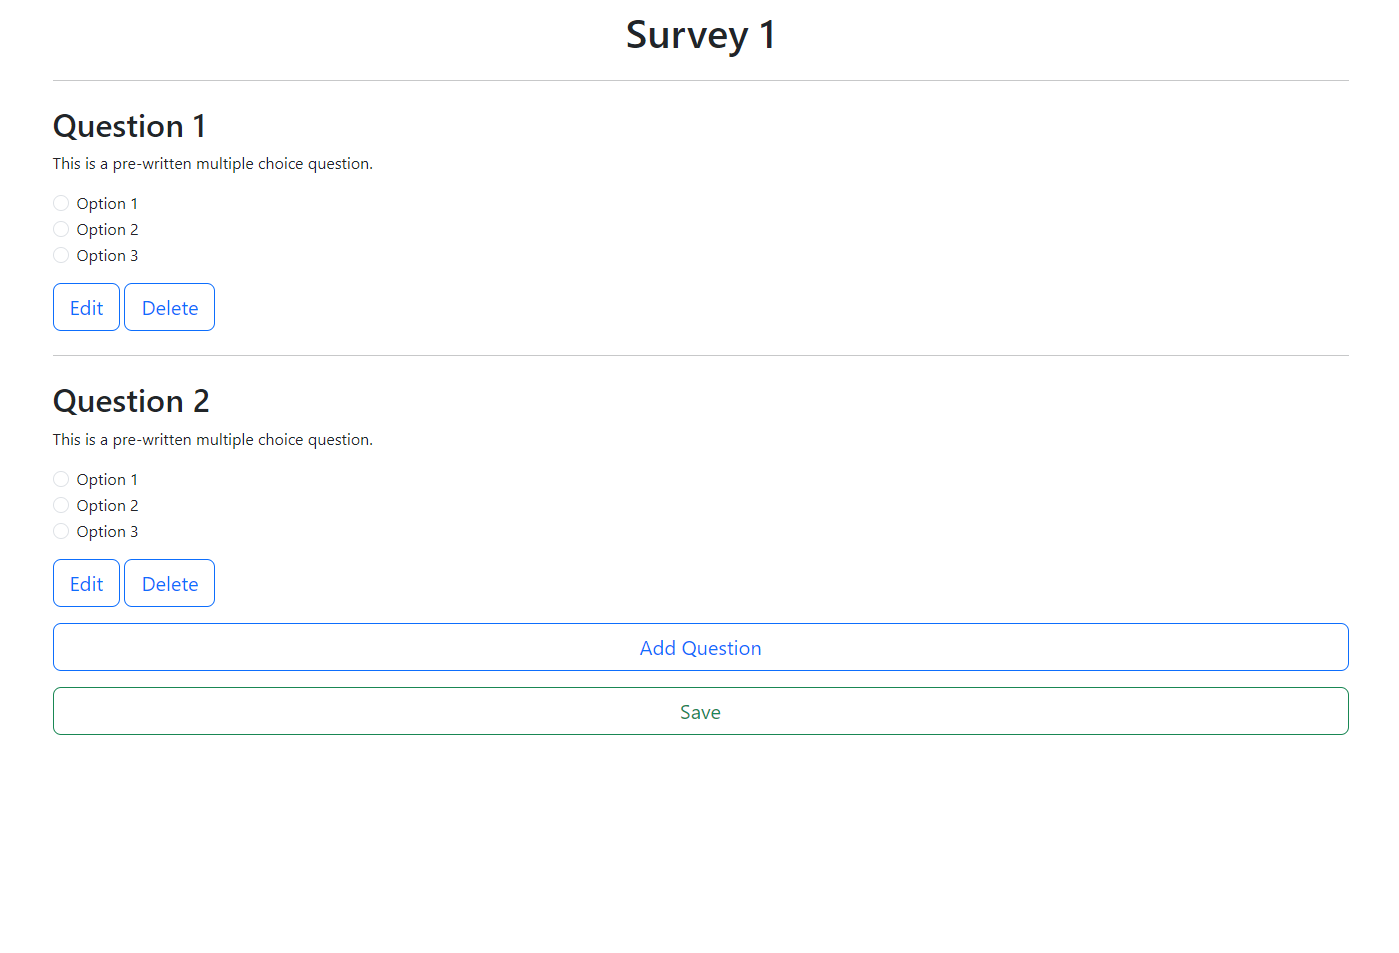
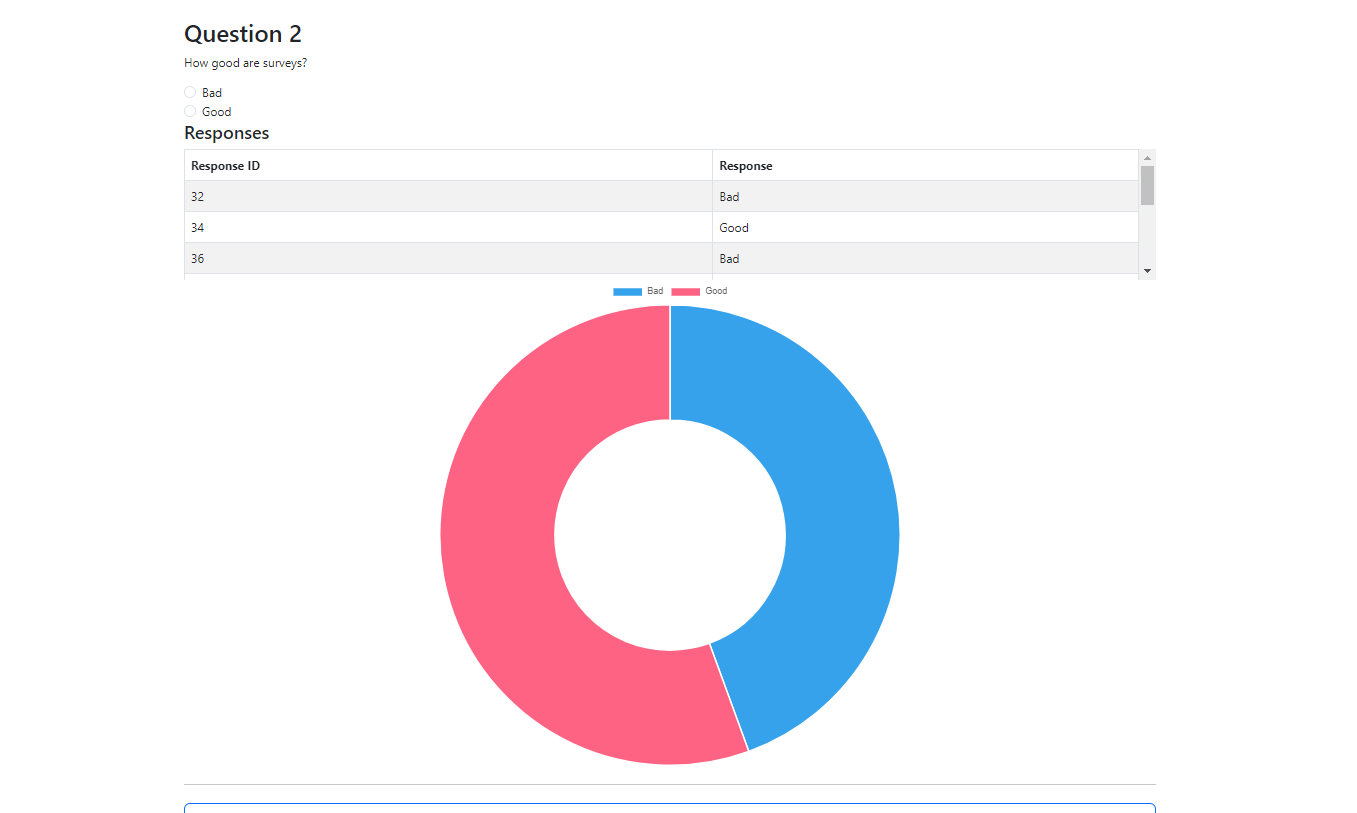
Implementing create/edit questions

diff --git a/app/Views/editSurvey.php b/app/Views/editSurvey.php
@@ -1,0 +1,87 @@
+<?= $this->extend('userTemplate') ?>
+<?= $this->section('content') ?>
+
+    
+<div class="container mt-3">
+    <h1 class="text-center"><?= esc($title) ?></h1>
+    <hr class="my-4">
+
+
+    <?php for ($i = 0; $i < count($questions); $i++): ?>
+        <h2>Question <?= $i + 1 ?> </h2>
+        <p><?= $questions[$i]['question'] ?></p> 
+
+        <?php if (!empty($options[$questions[$i]['question_id']])): ?> 
+            <?php foreach ($options[$questions[$i]['question_id']] as $option): ?>
+                <div class="form-check">
+                    <input class="form-check-input" type="radio" name="question_<?= $i + 1 ?>" id="option_<?= $option['option_id'] ?>" value="<?= $option['option_text'] ?>"> 
+                    <label class="form-check-label" for="option_<?= $option['option_id'] ?>"><?= $option['option_text'] ?></label>
+                </div>
+            <?php endforeach; ?>
+
+        <?php else: ?>
+            <div class="mb-3">
+                <textarea class="form-control" name="text_answer_<?= $i + 1 ?>" id="exampleFormControlTextarea1" rows="2" placeholder="Please Enter Answer"></textarea>
+            </div>
+        <?php endif; ?>
+
+        <form class="d-inline" action="<?= base_url('view-surveys/' . $id . '/edit-survey/deleteQuestion'); ?>" method="post">
+            <button type="submit" class="btn btn-danger" ><i class="bi bi-trash"></i></button>
+            <input type="hidden" value=<?=$questions[$i]['question_id']?> name="question_id" />
+        </form>
+
+        <hr class="my-4">       
+    <?php endfor; ?>
+
+
+    <div class="text-center">
+      <button type="button" class="btn btn-outline-primary btn-lg" style="width: 100%;" data-bs-toggle="modal" data-bs-target="#addQuestionModal">
+          <i class="bi bi-plus"></i> Add Question
+      </button>
+
+      <div class="mb-3"></div>
+
+      <a href="<?= base_url('view-surveys')?>" class="btn btn-outline-success btn-lg" style="width: 100%;">
+        <i class="bi bi-save"></i> Save
+      </a>
+    </div>
+
+</div>
+
+<div class="modal fade" id="addQuestionModal" tabindex="-1" aria-labelledby="addQuestionModalLabel" aria-hidden="true">
+        <div class="modal-dialog modal-dialog-centered">
+            <div class="modal-content">
+                <div class="modal-header">
+                    <h5 class="modal-title" id="addQuestionlLabel">Add New Question</h5>
+                    <button type="button" class="btn-close" data-bs-dismiss="modal" aria-label="Close"></button>
+                </div>
+                <div class="modal-body">
+                    <form id="addUserForm" action="<?= base_url('view-surveys/' . $id . '/edit-survey/addQuestion'); ?>" method="post">
+                        <div class="mb-3">
+                            <label for="text" class="form-label">Question</label>
+                            <input type="text" class="form-control" id="question" name="question">
+                        </div>
+                        <div class="mb-3">
+                            <label for="option1" class="form-label">Add Options? (You Can Add Up to 4)</label>
+                            <input type="text" class="form-control" id="option1" name="option1">
+                        </div>
+                        <div class="mb-3">
+                            <input type="text" class="form-control" id="option2" name="option2">
+                        </div>
+                        <div class="mb-3">
+                            <input type="text" class="form-control" id="option3" name="option3">
+                        </div>
+                        <div class="mb-3">
+                            <input type="text" class="form-control" id="option4" name="option4">
+                        </div>
+                        <div class="modal-footer">
+                            <button type="button" class="btn btn-secondary" data-bs-dismiss="modal">Cancel</button>
+                            <button type="submit" class="btn btn-primary">Add</button>
+                        </div>
+                    </form>
+                </div>
+            </div>
+        </div>
+    </div>
+
+<?= $this->endSection() ?>

diff --git a/app/Controllers/EvalformController.php b/app/Controllers/EvalformController.php
@@ -70,11 +70,6 @@ class EvalformController extends BaseController
         return view('viewSurveys', $data);
     }
 
-    public function createSurvey()
-    {
-        return view('createSurvey');
-    }
-
     public function admin()
     {
         $user = auth()->user();
@@ -350,19 +345,81 @@ class EvalformController extends BaseController
 
         fputcsv($output, array('Id', 'Question ID', 'Response'));
 
-        
-        if (count($responses) > 0) {
-            foreach ($responses as $response) {
-                $response_row = [
-                    $response['response_id'],
-                    $response['question_id'],
-                    $response['response']
-                ];
+        foreach ($responses as $response) {
+            $response_row = [
+                $response['response_id'],
+                $response['question_id'],
+                $response['response']
+            ];
 
-                fputcsv($output, $response_row);
-            }
+            fputcsv($output, $response_row);
         }
     }
+
+    public function editSurvey($id)
+    {
+
+        $data = $this->surveyViewer($id);
+
+        return view('editSurvey', $data);
+    }
+
+    public function createSurvey()
+    {
+        $surveys = new \App\Models\SurveyModel();
+
+        $userId = auth()->user()->id;
+        $title = $this->request->getPost('title');
+
+        $data = [
+            'user_id' => $userId,
+            'title' => $title
+        ];
+
+        $surveys->insert($data);
+
+        return redirect()->back();  
+    }
+
+    public function addQuestion($id)
+    {
+        $questions = new \App\Models\QuestionsModel();
+        $options = new \App\Models\OptionsModel();
+
+        $question = $this->request->getPost('question');
+
+        
+
+        $questionData = [
+            'survey_id' => $id,
+            'question' => $question
+        ];
+
+        $questions->insert($questionData);
+
+        for ($i = 0; $i < 4; $i++) {
+            if (!empty($this->request->getPost('option' . ($i + 1)))) {
+                $optionsData['question_id'] = $questions->getInsertID();
+                $optionsData["option_text"] = $this->request->getPost('option' . ($i + 1));
+                $options->insert($optionsData);
+            }
+        }
+        
+        return redirect()->to('view-surveys/' . $id . '/edit-survey');
+    }
+
+    public function deleteQuestion($id)
+    {
+
+        $questionId = $this->request->getPost('question_id');  
+
+        $model = new \App\Models\QuestionsModel();
+        $model->delete($questionId);
+
+        return redirect()->to('view-surveys/' . $id . '/edit-survey');
+    }
+
+
 }
 
 

diff --git a/app/Views/viewSurveys.php b/app/Views/viewSurveys.php
@@ -25,8 +25,6 @@
                         </div>
                         <p class="card-text">Last Updated: <?= esc($survey['updated_at']) ?>.</p>
                         <div>
-                            <!-- <a href="survey.html" class="btn btn-primary">View Survey</a> -->
-
                             <form class="d-inline" action="<?= base_url('view-surveys/' . $survey['survey_id']); ?>" method="get">
                                 <button type="submit" class="btn btn-primary" >View Survey</button>
                             </form>
@@ -73,14 +71,38 @@
 
 
      <!-- Create Survey Button -->
-  <div class="text-center">
-    <a href="<?php echo base_url('edit-survey'); ?>" class="btn btn-outline-primary btn-lg d-flex justify-content-center align-items-center mb-3" style="width: 100%;">
-      <i class="bi bi-plus" style="font-size: 4rem; font-weight: bold; line-height: 4rem;"></i>
-    </a>
-  </div>
+    <div class="text-center">
+        <button 
+            class="btn btn-outline-primary btn-lg" style="width: 100%;" data-bs-toggle="modal" data-bs-target="#createSurveyModal"> 
+            <i class="bi bi-plus" style="font-size: 4rem; font-weight: bold; line-height: 4rem;"></i>
+        </button>
+    </div>
 
+    <div class="modal fade" id="createSurveyModal" tabindex="-1" aria-labelledby="changeTitleLabel" aria-hidden="true">
+        <div class="modal-dialog modal-dialog-centered">
+            <div class="modal-content">
+                <div class="modal-header">
+                    <h5 class="modal-title" id="changeTitle">Create New Survey</h5>
+                    <button type="button" class="btn-close" data-bs-dismiss="modal" aria-label="Close"></button>
+                </div>
+                <div class="modal-body">
+                    <form id="changetitleModal" action="<?= base_url('view-surveys/createSurvey'); ?>" method="post">
+                        <div class="mb-3">
+                            <label for="title" class="form-label">Title</label>
+                            <input type="title" class="form-control" id="title" name="title">
+                        </div>
+                        <div class="modal-footer">
+                            <button type="button" class="btn btn-secondary" data-bs-dismiss="modal">Cancel</button>
+                            <button type="submit" class="btn btn-primary">Create</button>
+                        </div>
+                    </form>
+                </div>
+            </div>
+        </div>
+    </div>
     
-  </div>
+
+</div>
 
   <script>
        

diff --git a/app/Views/viewResponses.php b/app/Views/viewResponses.php
@@ -7,7 +7,7 @@
     overflow: auto;
     }
 
-    #chart-container-1 { /* Replace with the specific container ID */
+    #chart-container-1 { 
     width: 300px; 
     height: 250px;
 }
@@ -20,6 +20,10 @@
     <?php for ($i = 0; $i < count($questions); $i++): ?>
         <h2>Question <?= $i + 1 ?> </h2>
         <p><?= $questions[$i]['question'] ?></p> 
+
+        <?php $questionResponses = array_filter($responses, function($response) use ($questions, $i) {
+            return $response['question_id'] == $questions[$i]['question_id'];
+        }); ?>
 
         <?php if (!empty($options[$questions[$i]['question_id']])): ?> 
             <?php foreach ($options[$questions[$i]['question_id']] as $option): ?>
@@ -37,7 +41,7 @@
 
         <h4>Responses</h4>
         
-        <?php if (!empty($responses)): ?> 
+        <?php if (!empty($questionResponses)): ?> 
             <div class="table-responsive"> 
                 <table class="table table-striped table-bordered table-hover table-responsive">
                     <thead class="sticky-top bg-white">
@@ -58,11 +62,8 @@
                     </tbody>
                 </table>
             </div>
-        <?php else: ?>
-            <p>No responses for this question yet.</p>
-        <?php endif; ?>
 
-        <?php if (!empty($options[$questions[$i]['question_id']])): ?> 
+            <?php if (!empty($options[$questions[$i]['question_id']])): ?> 
             <div id="chart-container-<?= $questions[$i]['question_id'] ?>" style="width: 50%; height: 50%; margin:auto;">
                 <canvas id="questionChart-<?= $questions[$i]['question_id'] ?>"></canvas>
             </div>
@@ -88,7 +89,7 @@
 
                 // Create the Chart
                 new Chart(questionChart, {
-                    type: 'pie', 
+                    type: 'doughnut', 
                     data: {
                         labels: optionLabels, 
                         datasets: [{
@@ -98,6 +99,10 @@
                     },
                 });
             </script>
+            
+        <?php endif; ?>
+        <?php else: ?>
+            <p>No responses for this question yet.</p>
         <?php endif; ?>
 
         <hr class="my-4">

diff --git a/app/Config/Routes.php b/app/Config/Routes.php
@@ -10,7 +10,7 @@ $routes->get('/', 'EvalformController::index');
 $routes->get('/login', 'EvalformController::login');
 $routes->get('/register', 'EvalformController::register');
 
-$routes->get('/edit-survey', 'EvalformController::createSurvey');
+
 
 $routes->get('/respondent-survey/(:num)', 'EvalformController::respondentSurvey/$1');
 $routes->post('/respondent-survey/(:num)/submitResponses','EvalformController::submitResponses/$1');
@@ -20,10 +20,18 @@ $routes->post('/respondent-survey/(:num)/submitResponses','EvalformController::s
 $routes->get('/view-surveys', 'EvalformController::viewSurveys');
 $routes->post('/view-surveys/deleteSurvey/(:num)','EvalformController::deleteSurvey/$1');
 $routes->post('/view-surveys/changeSurveyTitle','EvalformController::changeSurveyTitle');
+$routes->post('view-surveys/createSurvey','EvalformController::createSurvey');
+
 $routes->get('view-surveys/(:num)', 'EvalformController::viewSurvey/$1');
 $routes->get('view-surveys/(:num)/qrcode','EvalformController::getQRCodes/$1');
+$routes->get('view-surveys/(:num)/edit-survey', 'EvalformController::editSurvey/$1');
+
+$routes->post('view-surveys/(:num)/edit-survey/addQuestion', 'EvalformController::addQuestion/$1');
+$routes->post('view-surveys/(:num)/edit-survey/deleteQuestion', 'EvalformController::deleteQuestion/$1');
+
 $routes->get('view-surveys/responses/(:num)','EvalformController::viewResponses/$1');
 $routes->post('view-surveys/responses/(:num)/export','EvalformController::exportResponses/$1');
+
 
 $routes->group('admin', function($routes) {
     $routes->get('/', 'EvalformController::admin');

diff --git a/app/Views/survey.php b/app/Views/survey.php
@@ -17,9 +17,12 @@
 
       <div class="mb-3"></div>
 
-      <a href="create-survey.html" class="btn btn-outline-success btn-lg" style="width: 100%;">
-        <i class="bi bi-save"></i> Edit
-      </a>
+      <div class="text-center">
+      <form action="<?= base_url('view-surveys/' . $id . '/edit-survey'); ?>" method="get">
+        <button type="submit" class="btn btn-outline-success btn-lg" style="width: 100%;">
+          <i class="bi bi-save"></i> Edit
+        </button>
+      </form>
 
       <div class="mb-3"></div>
 
